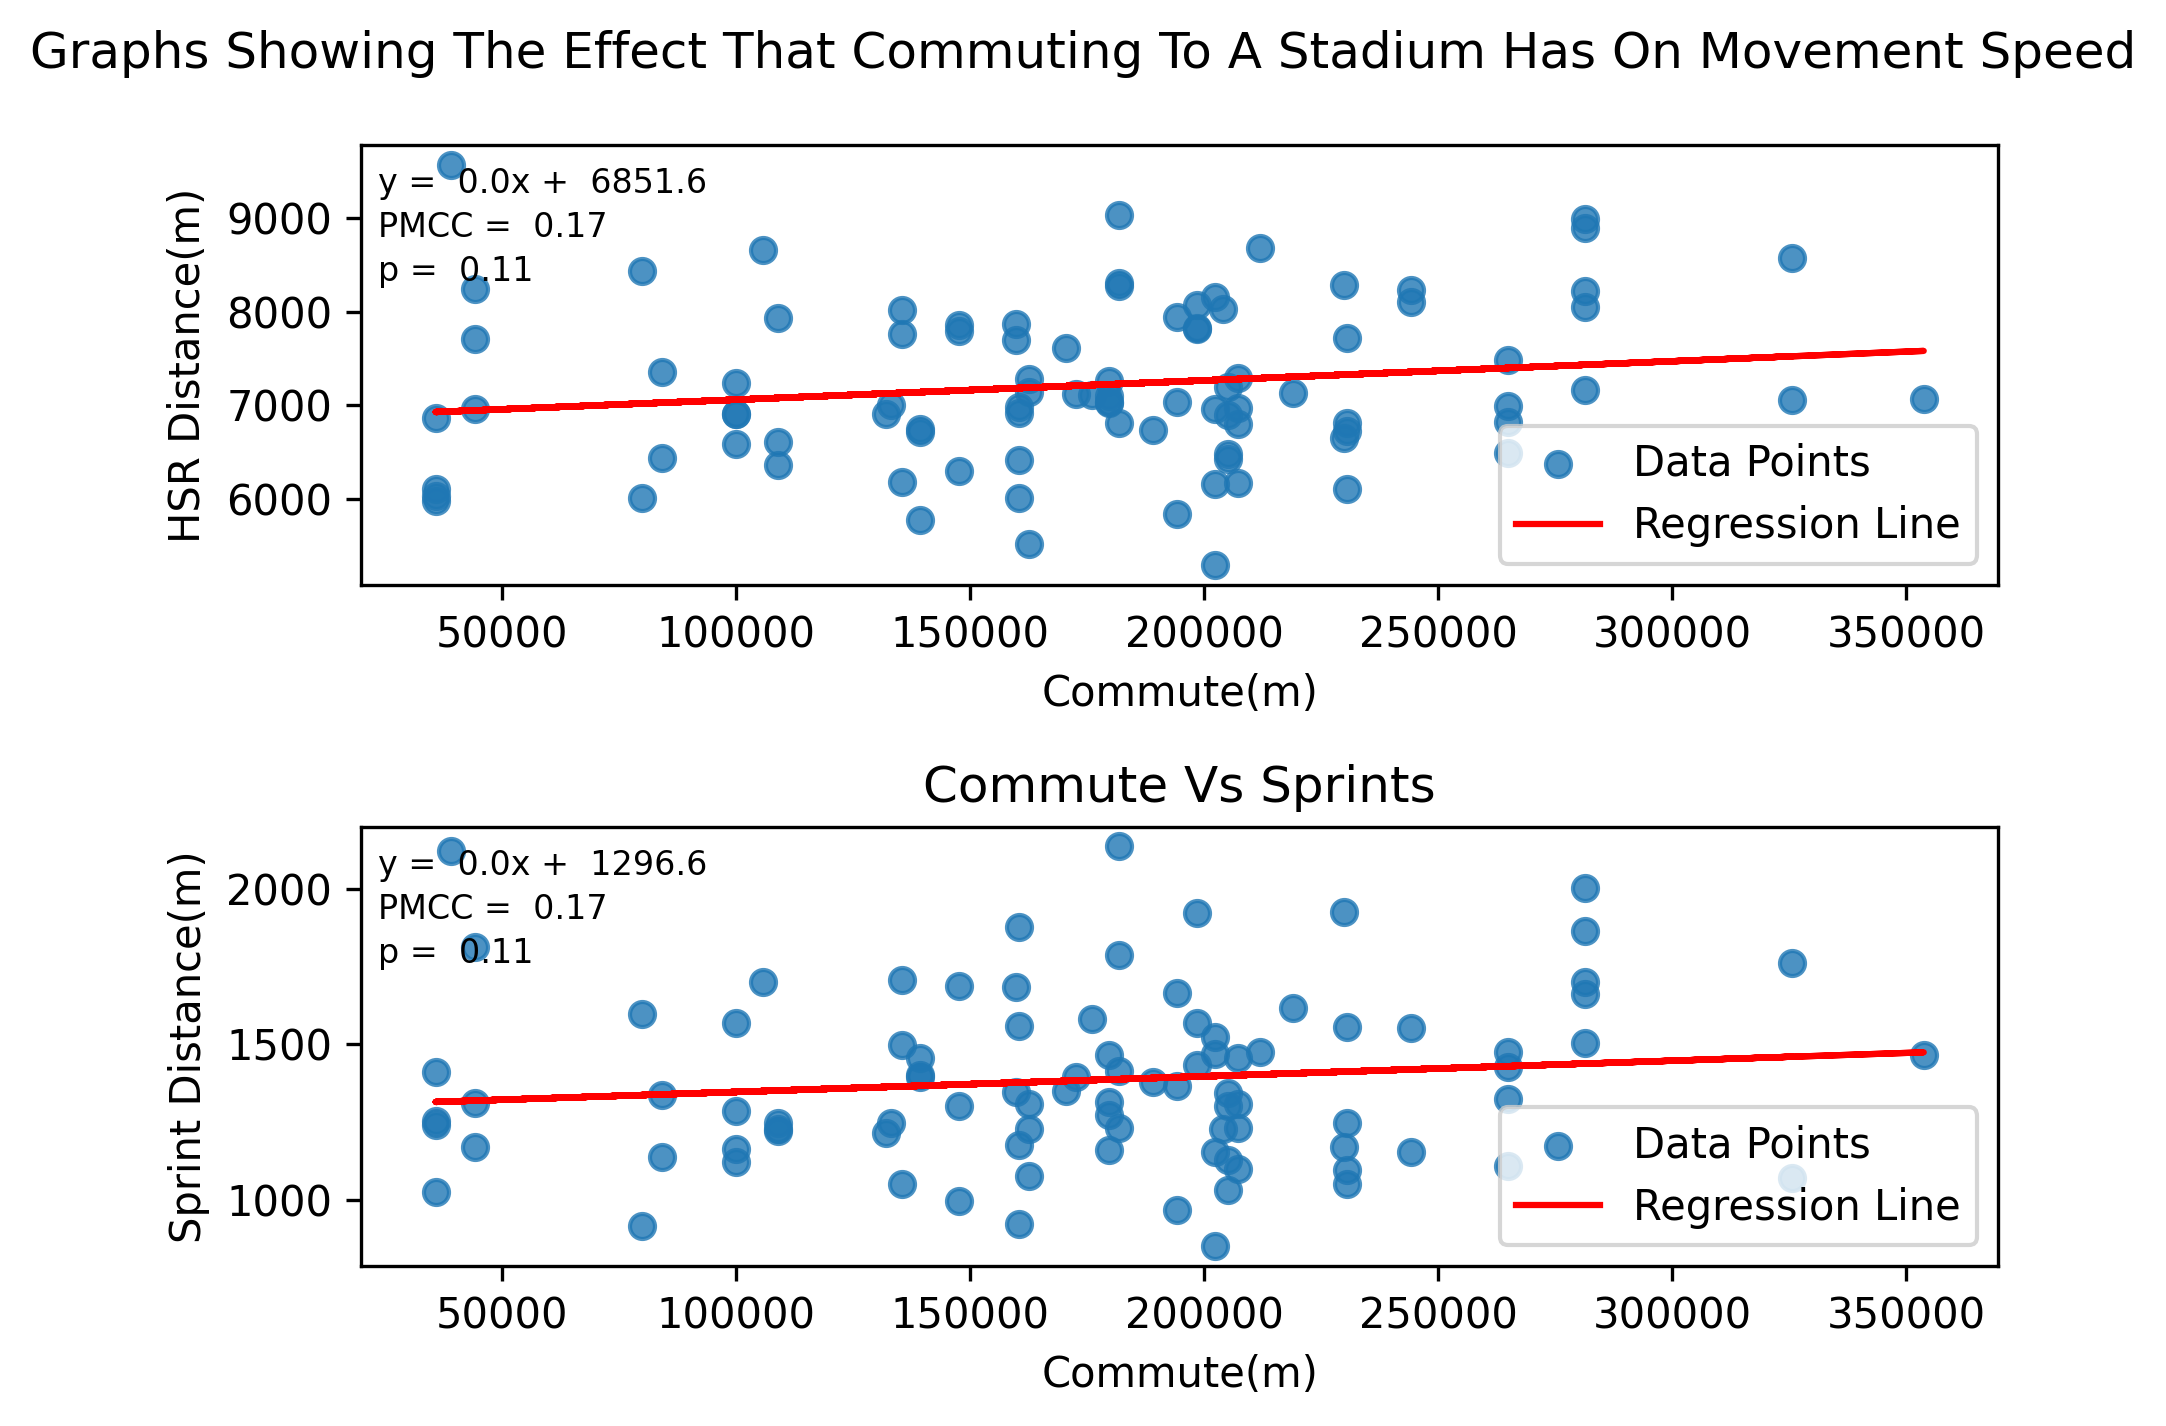
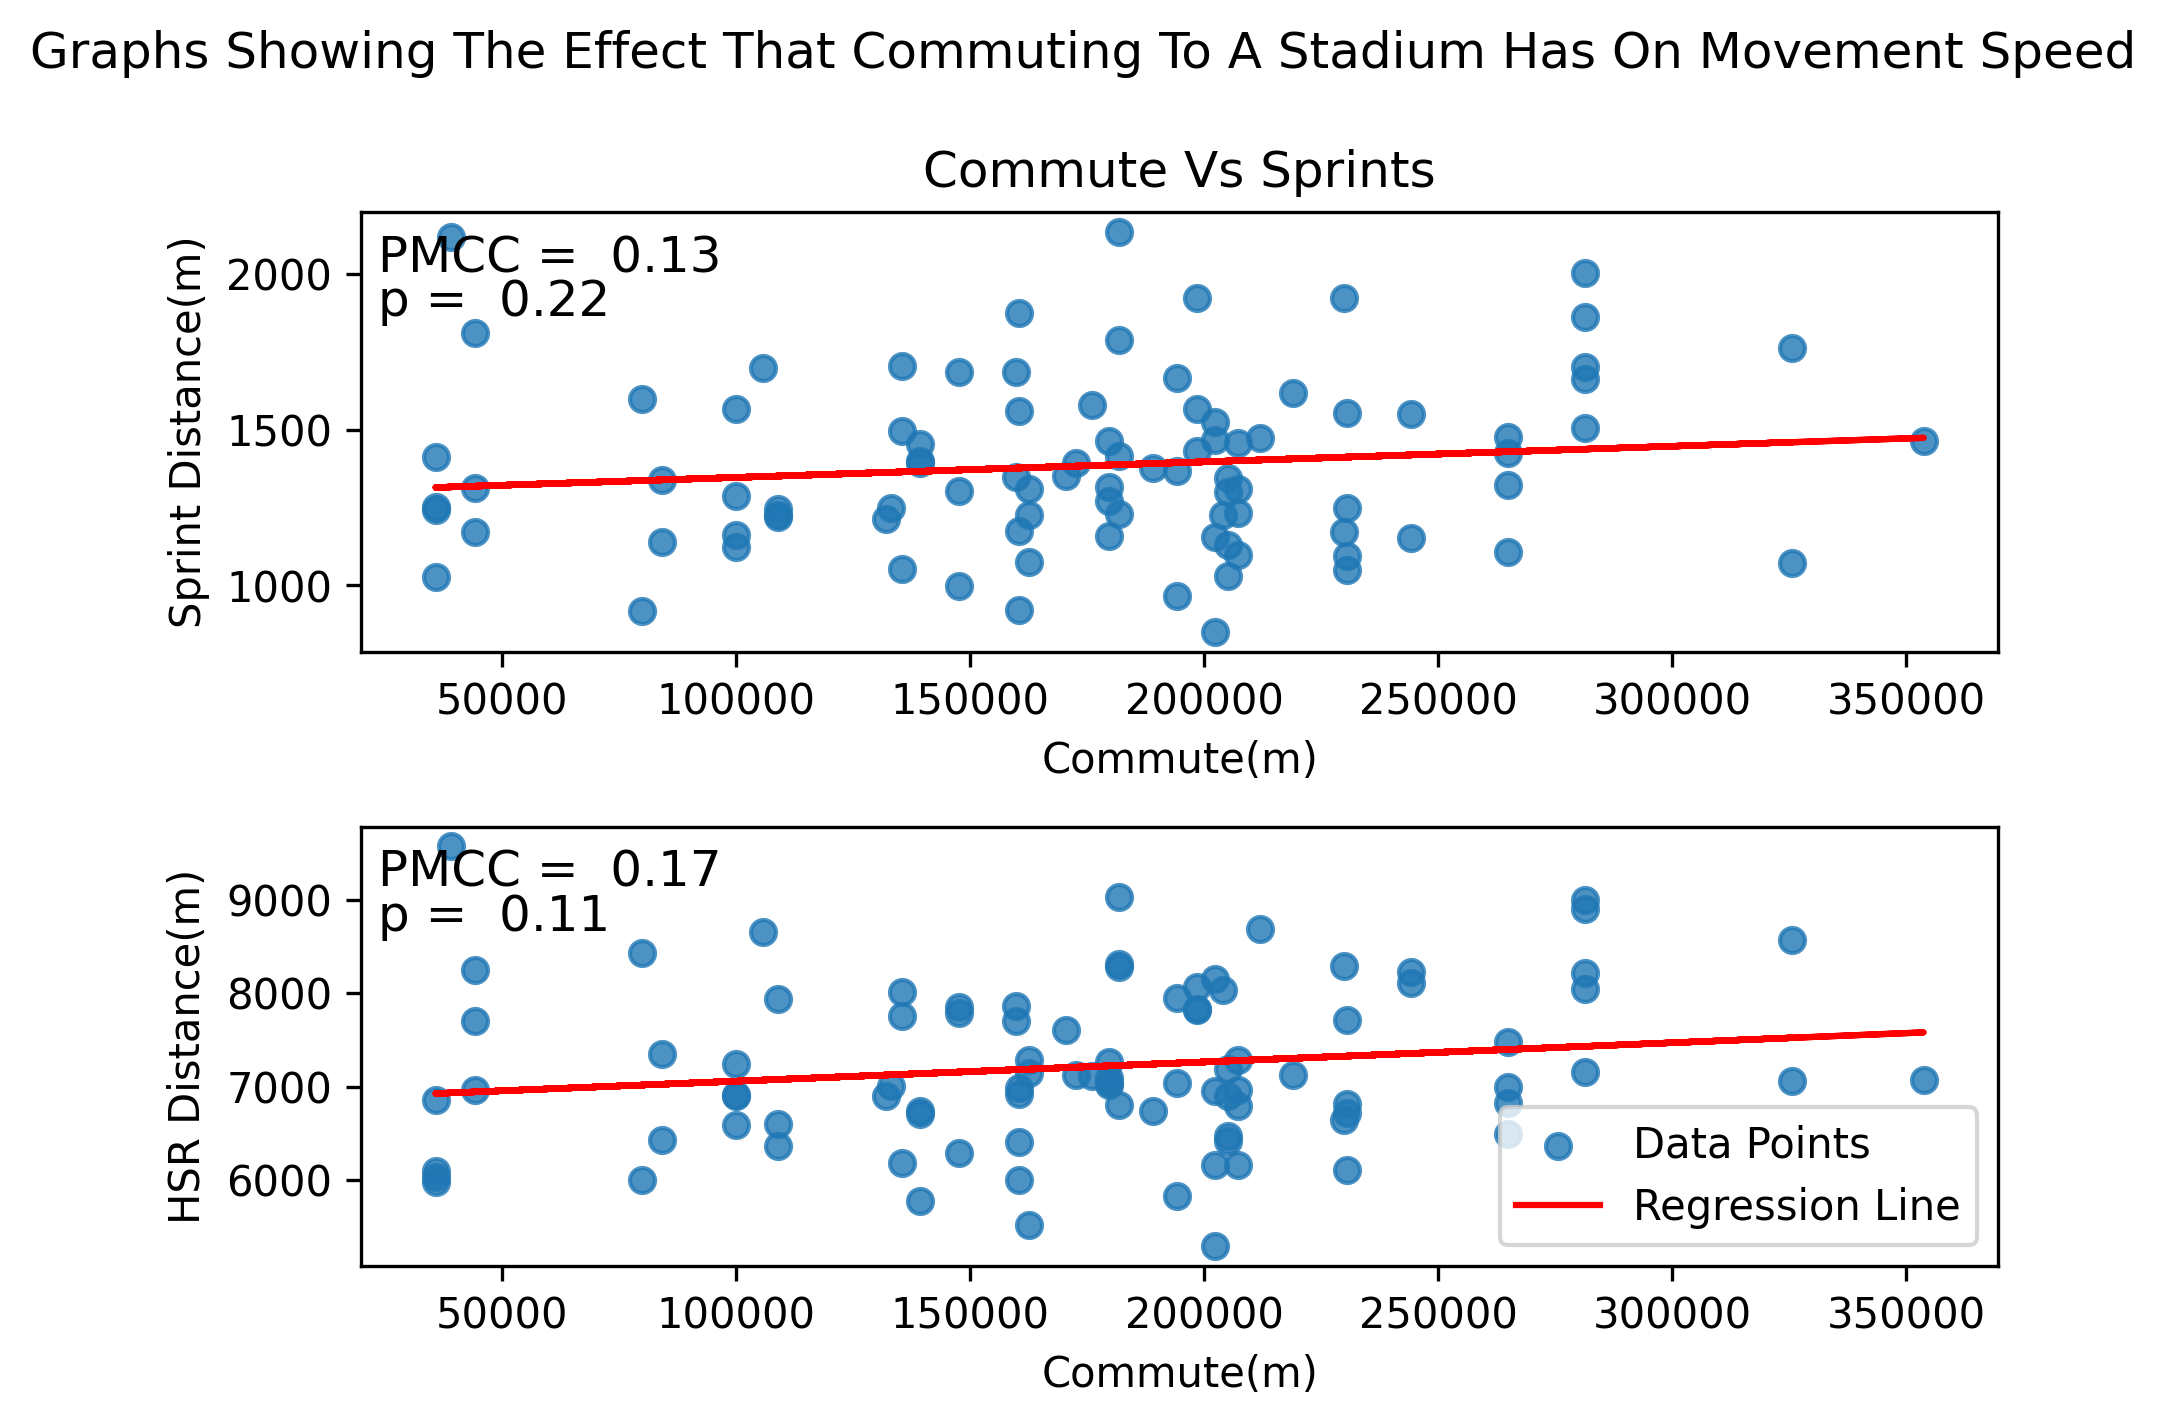
Have the commute-speed and hsr scatter graph too
Refined the latest-made graph

diff --git a/James/awayGameStats.py b/James/awayGameStats.py
@@ -192,8 +192,8 @@ def hsrAndSprintsCommitScatterGraph(dframe):
 
     #A Scatter Plot of Commute vs The distance that players ran during games between HSR and Sprints
     fig = plt.figure()
-    sfig1 = fig.add_subplot(2, 1, 1)
-    sfig2 = fig.add_subplot(2, 1, 2)
+    sfig1 = fig.add_subplot(2, 1, 2)
+    sfig2 = fig.add_subplot(2, 1, 1)
     sfig1.scatter(am['Commute'], am['HSR'], label = 'Data Points', alpha = 0.8)
     sfig2.scatter(am['Commute'], am['Sprint'], label = 'Data Points', alpha = 0.8)
 
@@ -208,24 +208,26 @@ def hsrAndSprintsCommitScatterGraph(dframe):
 
     # Calculate the PMCC and p values for the two graphs
     pmcc1, p1 = pearsonr.pearsonr(am['Commute'], am['HSR'])
-    pmcc2, p2 = pearsonr.pearsonr(am['Commute'], am['HSR'])
+    pmcc2, p2 = pearsonr.pearsonr(am['Commute'], am['Sprint'])
+
+    fsize = 12 #setting the font size
 
     # Adding a title, labels, the regression line, pmcc and p value, and a legend/key to the two graphs
     #sfig1.set_title('Commute Vs HSR'.title())
     sfig1.set_xlabel('Commute(m)')
     sfig1.set_ylabel('HSR Distance(m)')
-    sfig1.text(x = 0.01, y = 0.95, s = reg1, fontsize = 8, ha = 'left', va = 'top', transform = sfig1.transAxes)
-    sfig1.text(x = 0.01, y = 0.85, s = f"PMCC = {pmcc1 : .2f}", fontsize = 8, ha = 'left', va = 'top', transform = sfig1.transAxes)
-    sfig1.text(x = 0.01, y = 0.75, s = f"p = {p1 : .2f}", fontsize = 8, ha = 'left', va = 'top', transform = sfig1.transAxes)
+    #sfig1.text(x = 0.01, y = 0.95, s = reg1, fontsize = fsize, ha = 'left', va = 'top', transform = sfig1.transAxes)
+    sfig1.text(x = 0.01, y = 0.95, s = f"PMCC = {pmcc1 : .2f}", fontsize = fsize, ha = 'left', va = 'top', transform = sfig1.transAxes)
+    sfig1.text(x = 0.01, y = 0.85, s = f"p = {p1 : .2f}", fontsize = fsize, ha = 'left', va = 'top', transform = sfig1.transAxes)
     sfig1.legend()
 
     sfig2.set_title('Commute Vs Sprints'.title())
     sfig2.set_xlabel('Commute(m)')
     sfig2.set_ylabel('Sprint Distance(m)')
-    sfig2.text(x = 0.01, y = 0.95, s = reg2, fontsize = 8, ha = 'left', va = 'top', transform = sfig2.transAxes)
-    sfig2.text(x = 0.01, y = 0.85, s = f"PMCC = {pmcc2 : .2f}", fontsize = 8, ha = 'left', va = 'top', transform = sfig2.transAxes)
-    sfig2.text(x = 0.01, y = 0.75, s = f"p = {p2 : .2f}", fontsize = 8, ha = 'left', va = 'top', transform = sfig2.transAxes)
-    sfig2.legend()
+    #sfig2.text(x = 0.01, y = 0.95, s = reg2, fontsize = fsize, ha = 'left', va = 'top', transform = sfig2.transAxes)
+    sfig2.text(x = 0.01, y = 0.95, s = f"PMCC = {pmcc2 : .2f}", fontsize = fsize, ha = 'left', va = 'top', transform = sfig2.transAxes)
+    sfig2.text(x = 0.01, y = 0.85, s = f"p = {p2 : .2f}", fontsize = fsize, ha = 'left', va = 'top', transform = sfig2.transAxes)
+    # sfig2.legend()
 
     #Setting the super-title of the two-graph figure
     fig.suptitle("Graphs showing the effect that commuting to a stadium has on movement speed".title())
